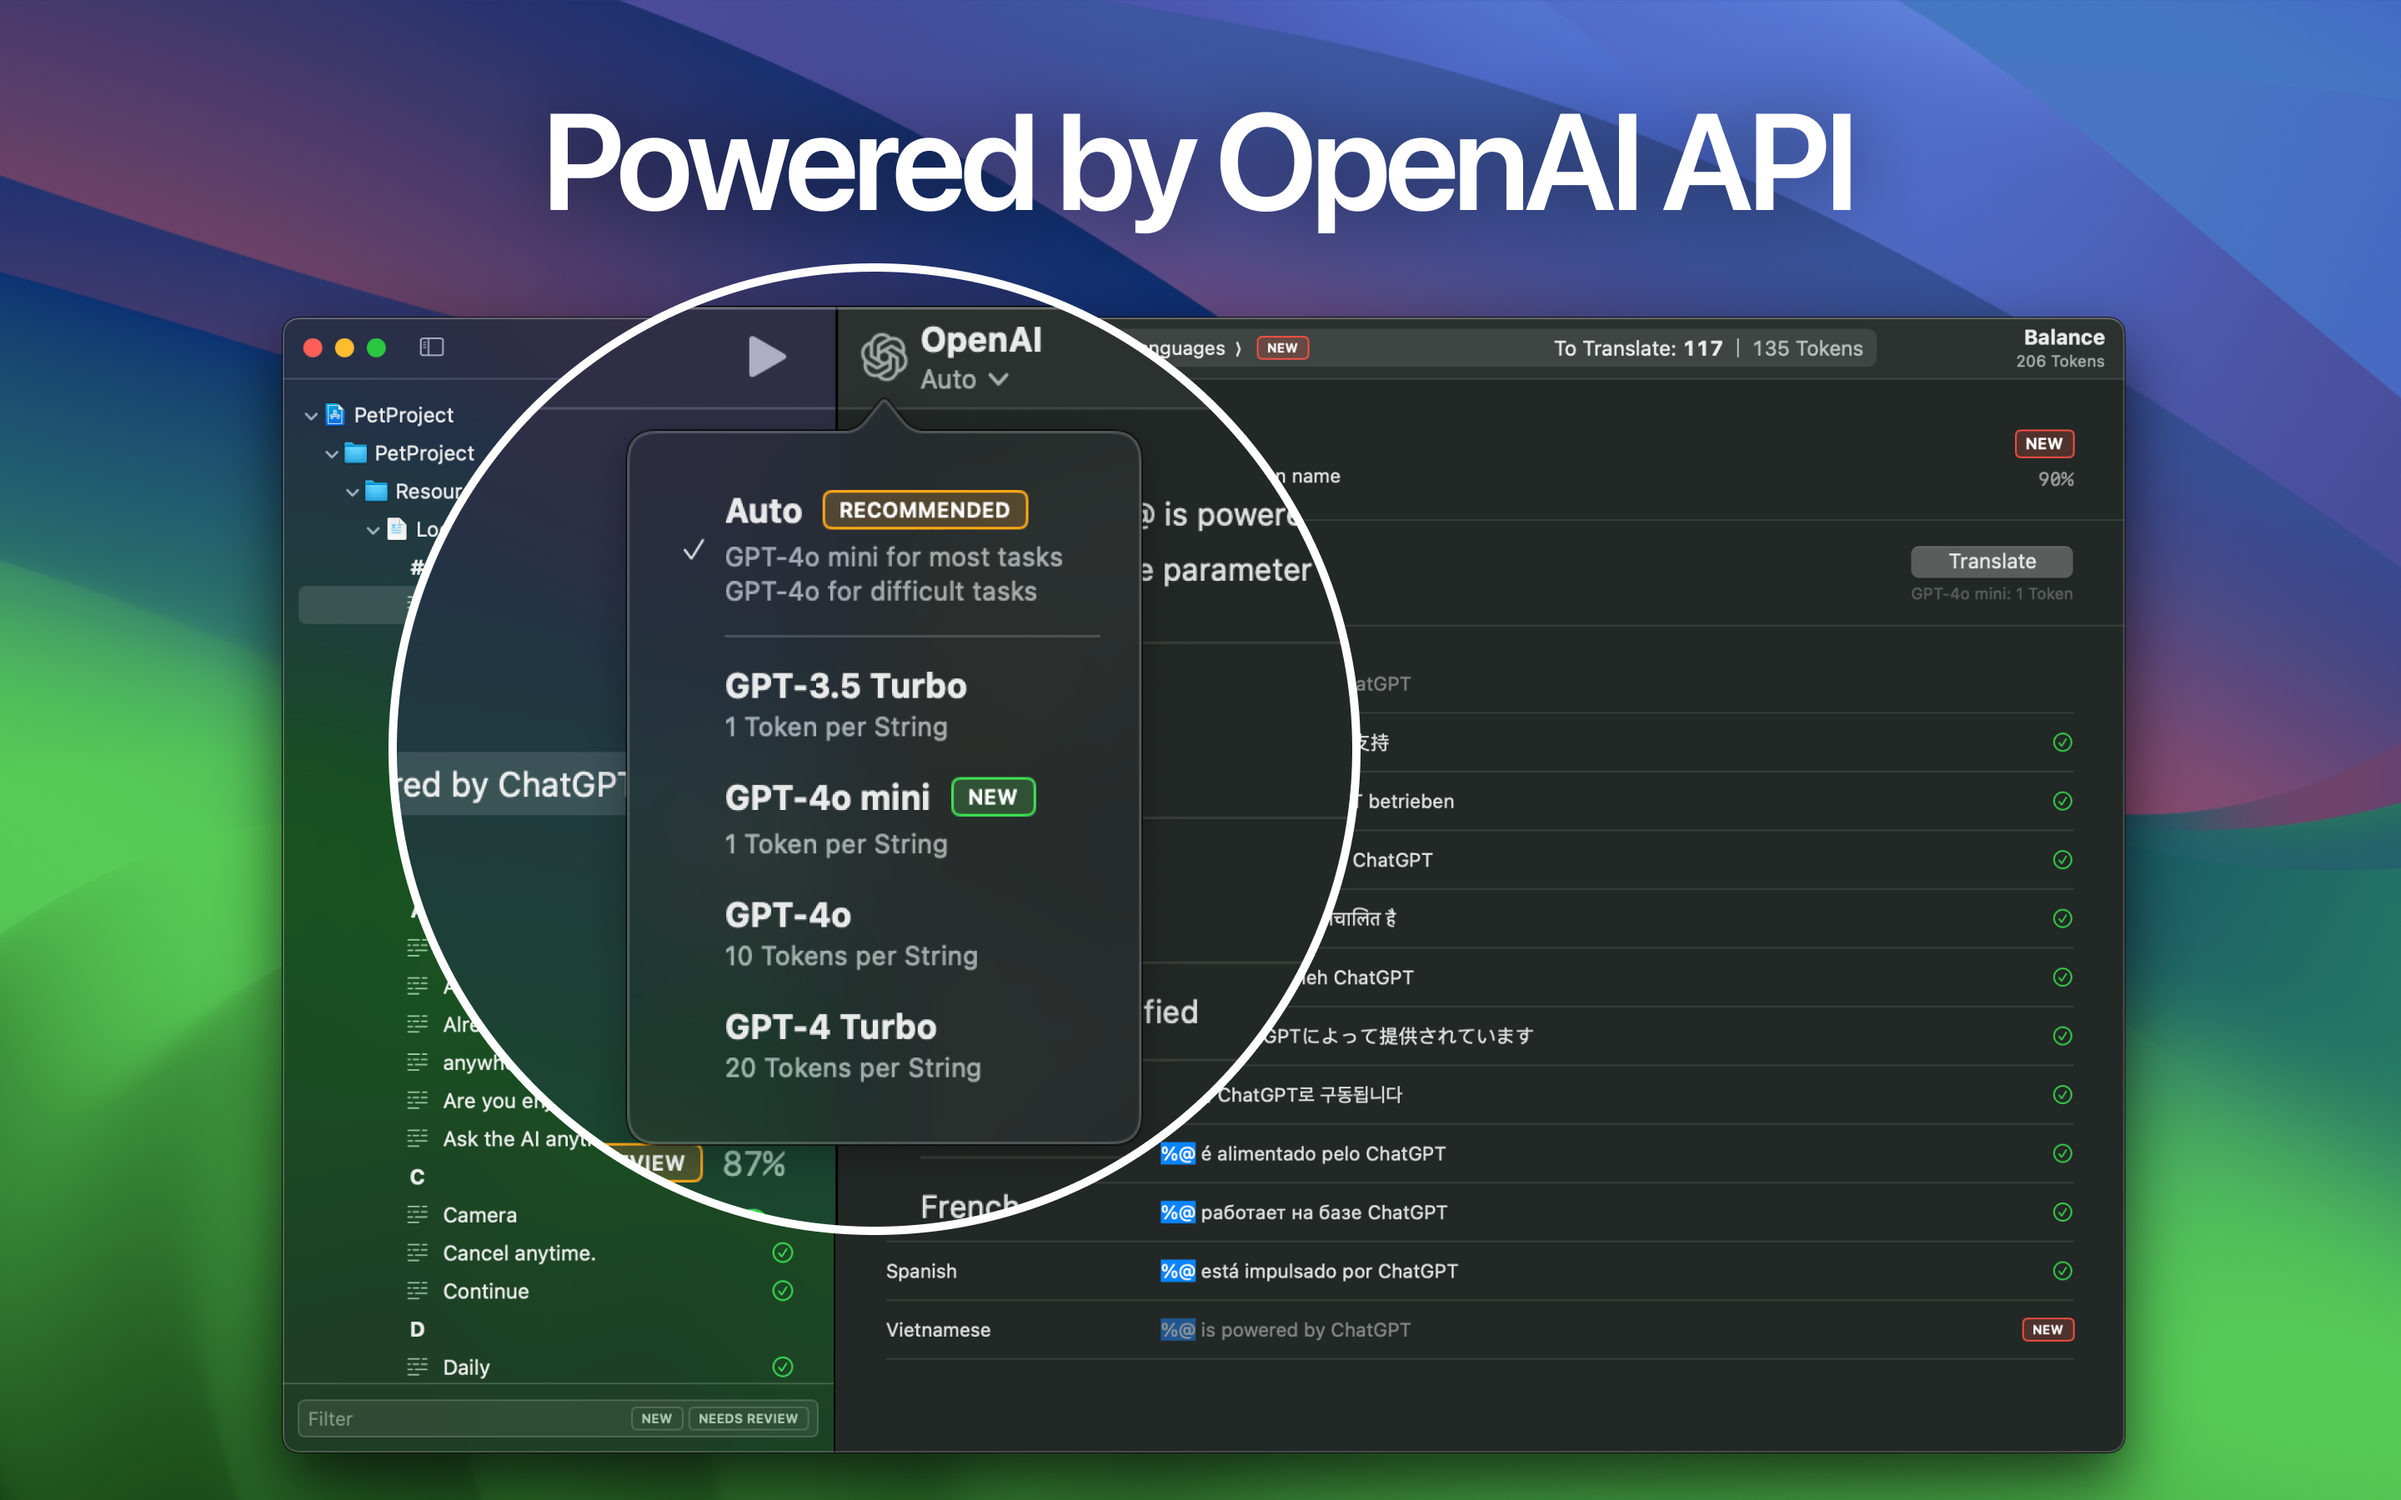
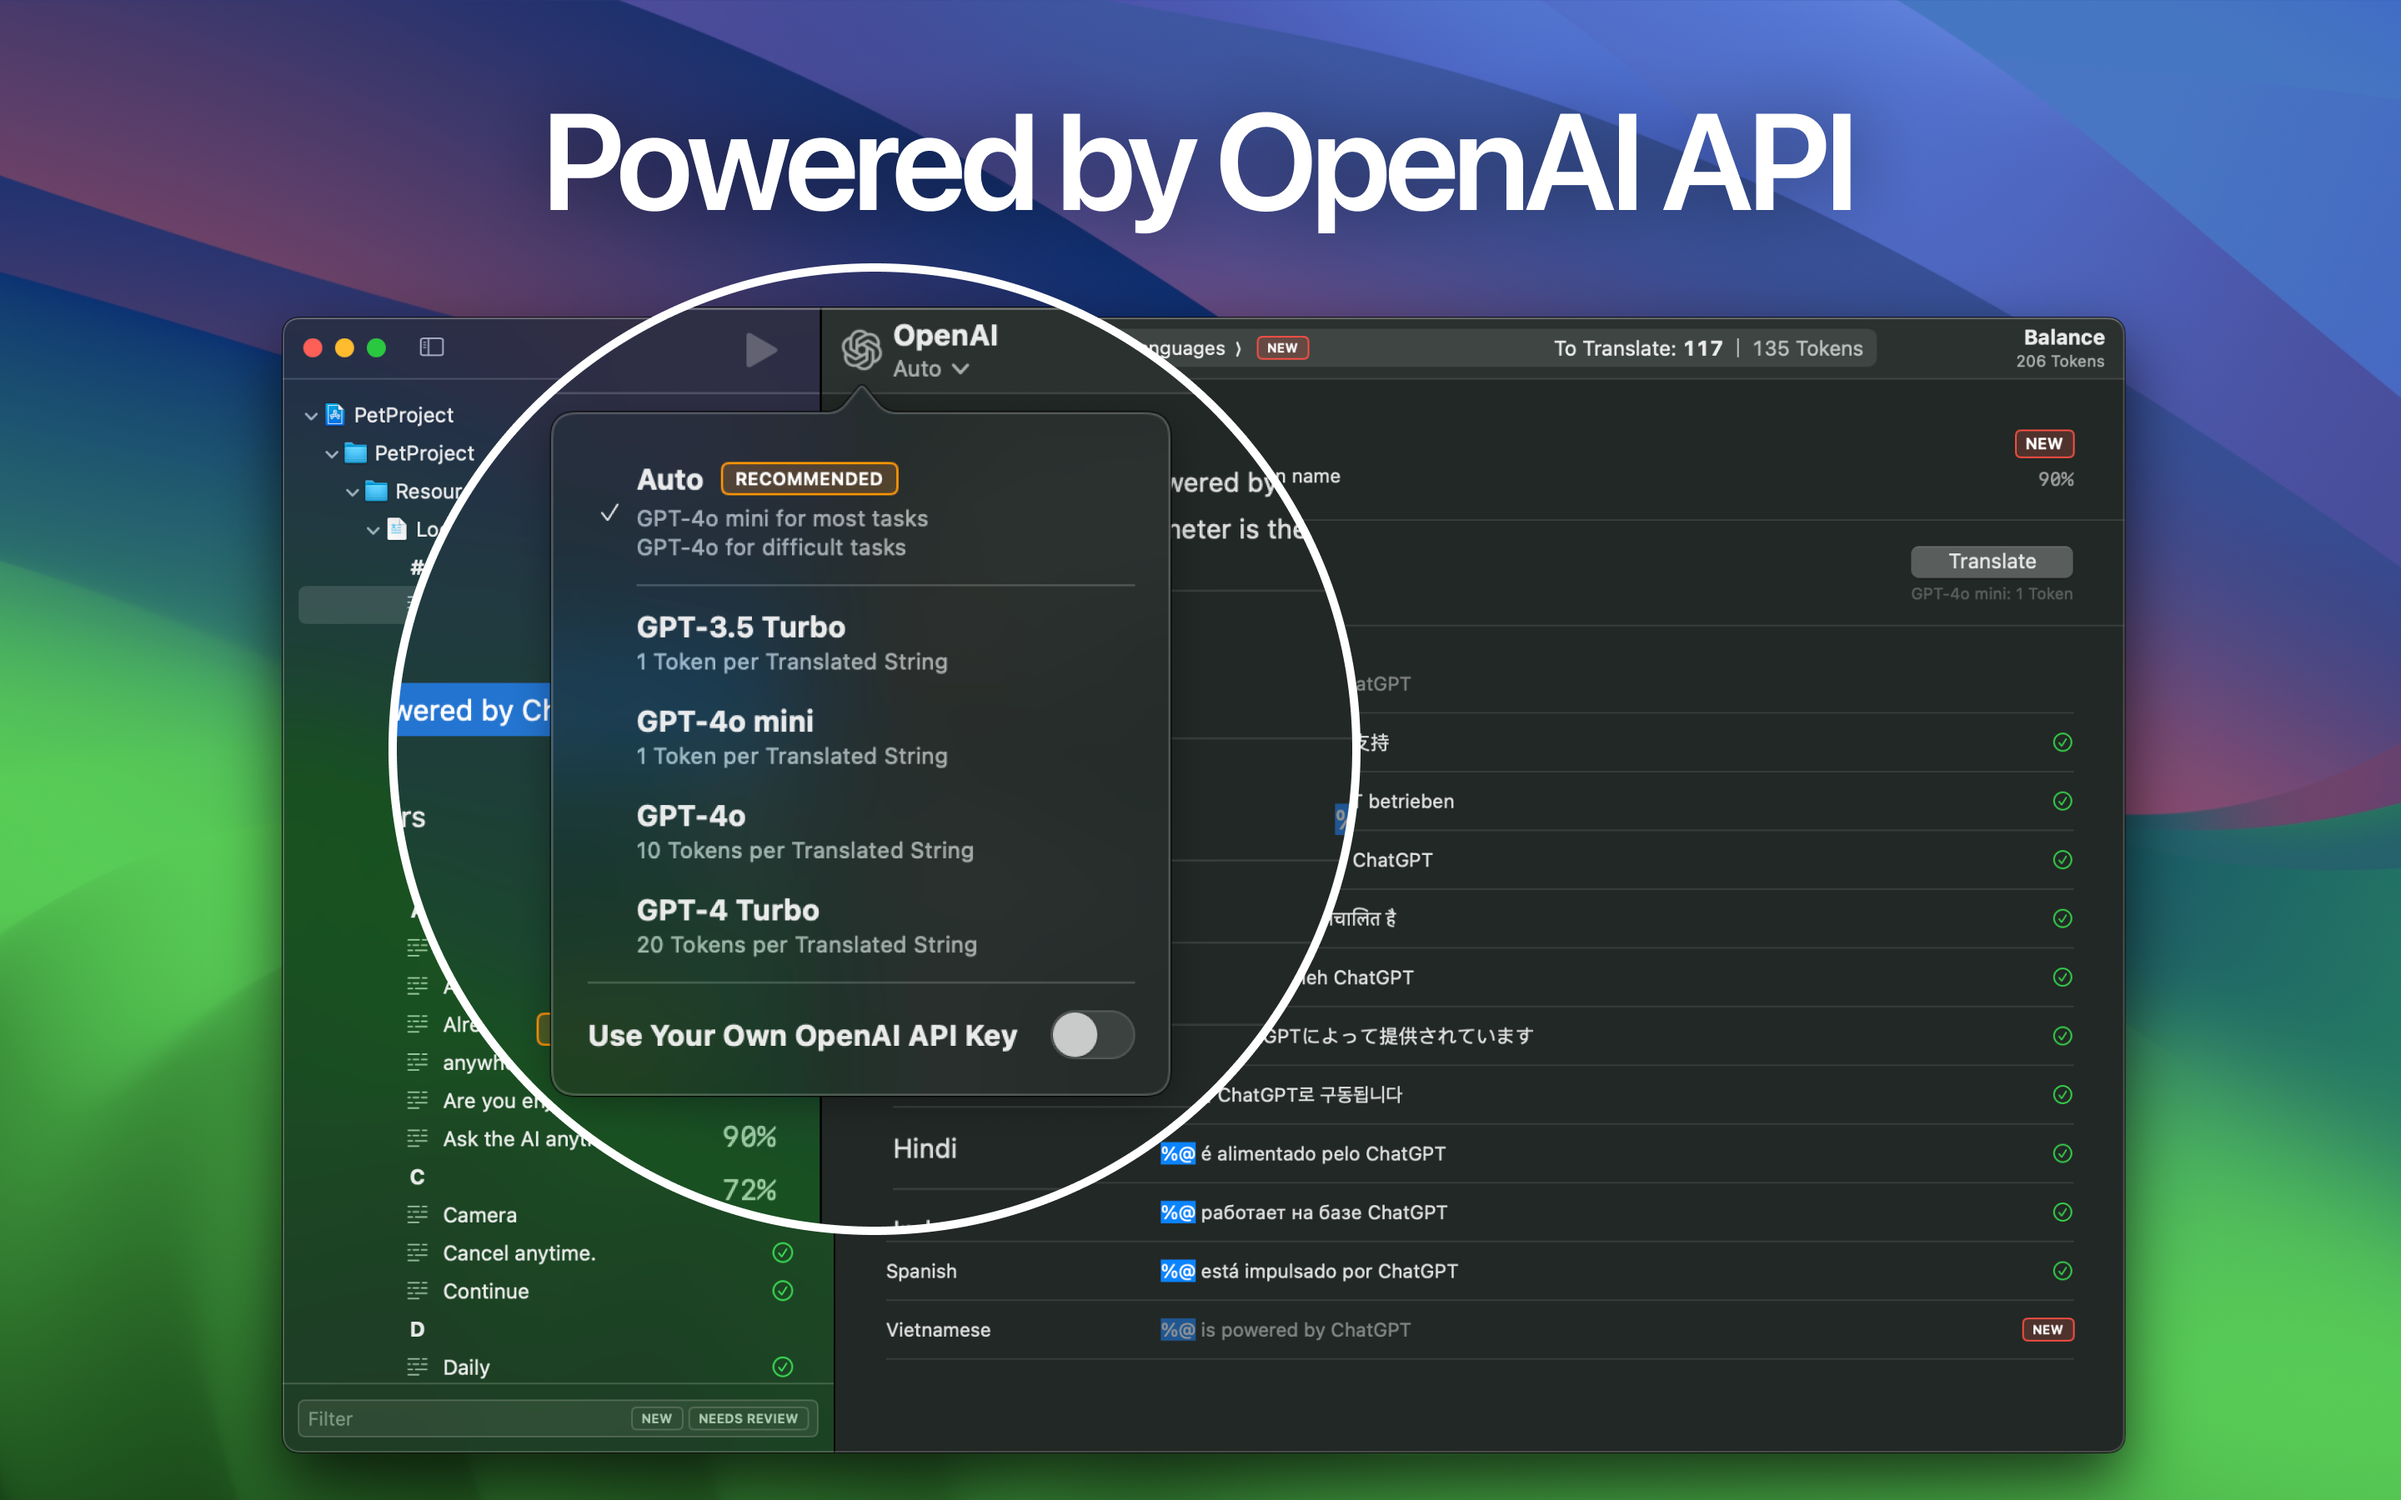
v1.1

Changed region(s): [[0.1562, 0.2178, 0.5, 0.8089], [0.4688, 0.3111, 0.5625, 0.4044], [0.5312, 0.5289, 0.5625, 0.56]]

diff --git a/terms.html b/terms.html
@@ -1,0 +1,33 @@
+<!DOCTYPE html>
+<html lang="en">
+   <head>
+      <meta charset="UTF-8" />
+      <meta name="viewport" content="width=device-width, initial-scale=1.0" />
+      <meta name="description" content="AI Translation Tool for Xcode">
+      <meta name="keywords" content="AI Translation, App Localization, Xcode, xcstrings, AI, OpenAI, ChatGPT, GPT">
+      <meta name="author" content="Siarhei Razanau">
+      <link rel="stylesheet" href="style.css" />
+      <title>Terms of Use</title>
+   </head>
+   <body>
+      <div class="content">
+         <h1>Terms of Use</h1>
+         <p><em>Last Updated: January 7, 2025</em></p>
+         <hr class="gradient">
+         <h3>1. Introduction</h3>
+         <p>These Terms of Use govern your use of the String Catalog – AI Translate application (hereinafter referred to as the “Application”).</p>
+         <h3>2. Usage Options</h3>
+         <p>You can use the Application in one of two ways, or combine them:</p>
+         <h4>2.1 Using Internal Tokens (String Catalog Tokens)</h4>
+         <p>You can purchase String Catalog Tokens to translate strings within the Application. The translation cost depends on the selected AI model.</p>
+         <p>No subscription is required for this usage method.</p>
+         <h4>2.2 Using a Personal OpenAI API Key</h4>
+         <p>To use a personal OpenAI API Key, an active String Catalog Advanced subscription is required.</p>
+         <p>The developer is not responsible for any errors, failures, or misuse of the API Key by the user.</p>
+         <h3>3. Subscription and Purchase Management</h3>
+         <p>Subscriptions and purchases are processed and managed by Apple. You can find more details in the <a href="https://support.apple.com/en-us/HT202023" target="_blank">Apple Support article</a>. If you purchase our products via the App Store, <a href="https://www.apple.com/legal/internet-services/itunes/dev/stdeula/" target="_blank">Apple’s Terms of Use (EULA)</a> apply.</p>
+         <h3>4. Contact Us</h3>
+         <p>If you have any questions or concerns about Terms of Use, please contact us at <a href="mailto:s.razanau@icloud.com">s.razanau@icloud.com</a>.</p>
+      </div>
+   </body>
+</html>

diff --git a/index.html b/index.html
@@ -37,8 +37,8 @@
 
          <h3>Supports Complex String Structures</h3>
          <p>Effortlessly manage complex string catalogs with plural and device variations, ensuring your translations are grammatically correct in every language.</p>
-         <h3>Pay-as-You-Go Model</h3>
-         <p>String Catalog uses a token-based system, meaning you only pay for the translations you need. No subscription required!</p>
+         <h3>Flexible Payment Options</h3>
+         <p>String Catalog offers flexibility with two payment models: purchase tokens directly in the app and pay only for the translations you need (no subscription required), or subscribe to String Catalog Advanced to use your own OpenAI API key for greater control and flexibility.</p>
          <h3>Perfect for Small Teams and Indie Developers</h3>
          <p>String Catalog is designed with simplicity and efficiency in mind, making it accessible to developers of any scale.</p>
          <h3>User-Friendly Interface</h3>
@@ -64,6 +64,10 @@
       </div>
       <div class="center">
          <a href="./support">Support</a>
+         <span style="opacity: 0.7; margin: 10px;">
+            <font color="white" size="4">•</font>
+         </span>
+         <a href="./terms">Terms of Use</a>
          <span style="opacity: 0.7; margin: 10px;">
             <font color="white" size="4">•</font>
          </span>

diff --git a/README.md b/README.md
@@ -1,0 +1,69 @@
+<p align="center">
+<img src="./img/icon.png" alt="App Icon" width="256" height="256">
+</p>
+
+
+<p align="center">
+  <h3 align="center">String Catalog – AI Translate</h3>
+  <h6 align="center">AI Translation Tool for Xcode</h6>
+</p>
+
+<p align="center">
+  <a href="https://itunes.apple.com/app/apple-store/id6504560764?pt=app_page&mt=12">
+    <img src="./img/appstore.svg" alt="Download on the Mac App Store" style="width:200px;">
+  </a>
+</p>
+
+* * *
+
+String Catalog is an AI tool designed for developers looking to efficiently localize their apps without overspending. Powered by OpenAI API, this app allows you to quickly translate your app’s strings into multiple languages, making it perfect for solo developers and small teams. There’s no need for manual imports or exports. String Catalog seamlessly syncs with your Xcode project. Simply select your project with string catalog (.xcstrings) files, and the app will handle the rest.
+
+![The Fastest Way to Localize Your Apps](./img/Frame1.png)
+
+### AI-Powered Translations
+
+Translate your app’s strings into dozens of languages in minutes, leveraging the power of ChatGPT. Choose from various AI models, including GPT-3.5 Turbo, GPT-4o mini, GPT-4o, and GPT-4 Turbo, or use Auto mode for convenience.
+
+### Context-Aware Translations
+
+Ensure accurate translations by adding contextual information to string comments. The AI will take these details into account, improving translation quality.
+
+### Preserves Formatting
+
+The AI understands and preserves formatting, such as Markdown or HTML, ensuring that your translated strings maintain their structure and style across different languages.
+
+### Manual String Editing
+
+Review and manually edit translations to maintain full control over your app’s content.
+
+### Supports Complex String Structures
+
+Effortlessly manage complex string catalogs with plural and device variations, ensuring your translations are grammatically correct in every language.
+
+### Flexible Payment Options
+
+String Catalog offers flexibility with two payment models: purchase tokens directly in the app and pay only for the translations you need (no subscription required), or subscribe to String Catalog Advanced to use your own OpenAI API key for greater control and flexibility.
+
+### Perfect for Small Teams and Indie Developers
+
+String Catalog is designed with simplicity and efficiency in mind, making it accessible to developers of any scale.
+
+### User-Friendly Interface
+
+Enjoy a smooth experience with support for both light and dark modes, tailored to your system preferences.
+
+![Powered by OpenAI API](./img/Frame2.png)
+
+![Support Complex Plural Strings](./img/Frame3.png)
+
+![Support for Device Variations](./img/Frame4.png)
+
+![Light & Dark Mode](./img/Frame5.png)
+
+<p align="center">
+  <a href="https://sergey-rezanov.github.io/string-catalog/support">Support</a>
+  <span style="opacity: 0.7; margin: 10px;">
+    <font color="white" size="4">•</font>
+  </span>
+  <a href="https://sergey-rezanov.github.io/string-catalog/policy">Privacy Policy</a>
+</p>
